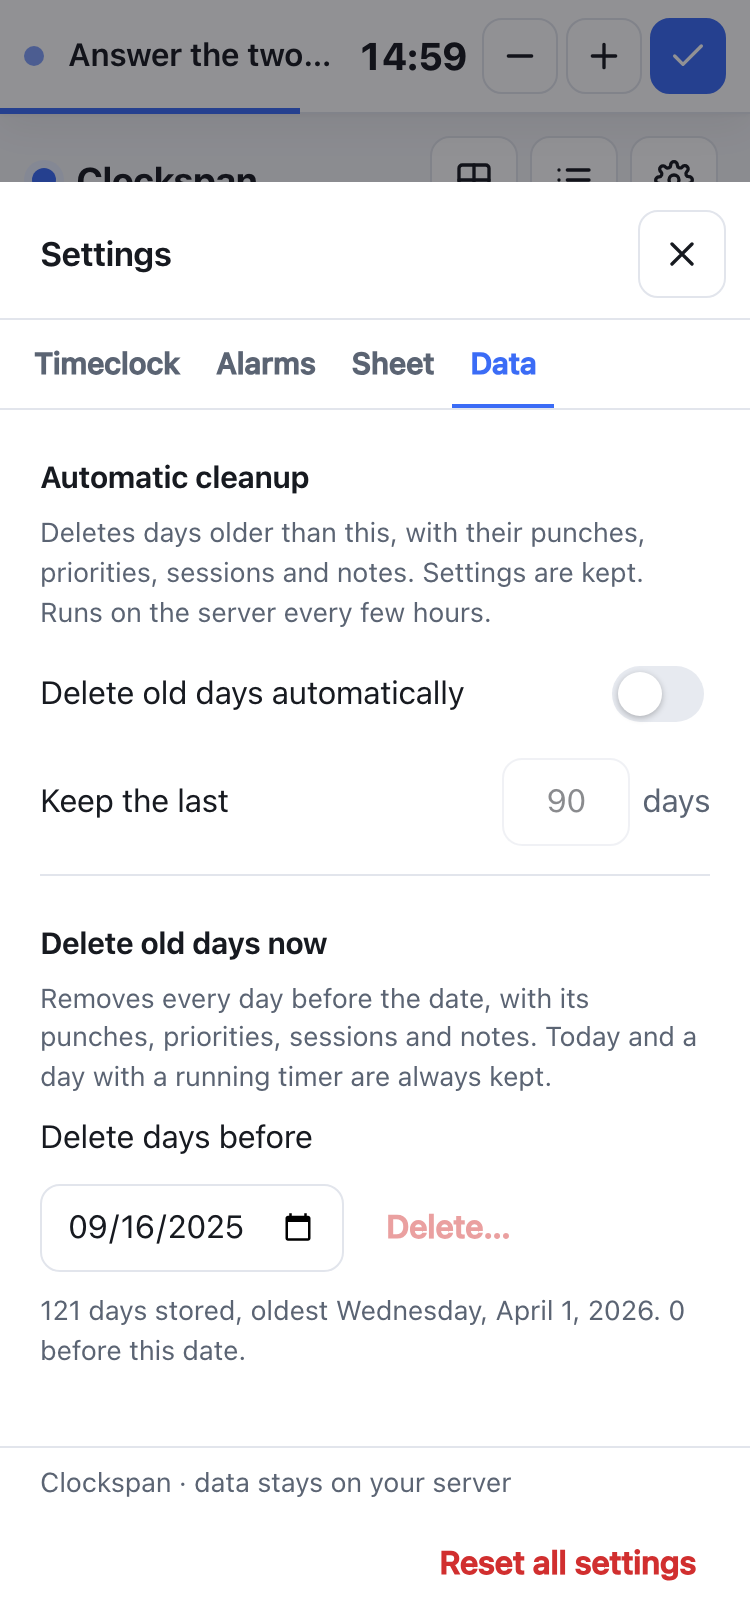
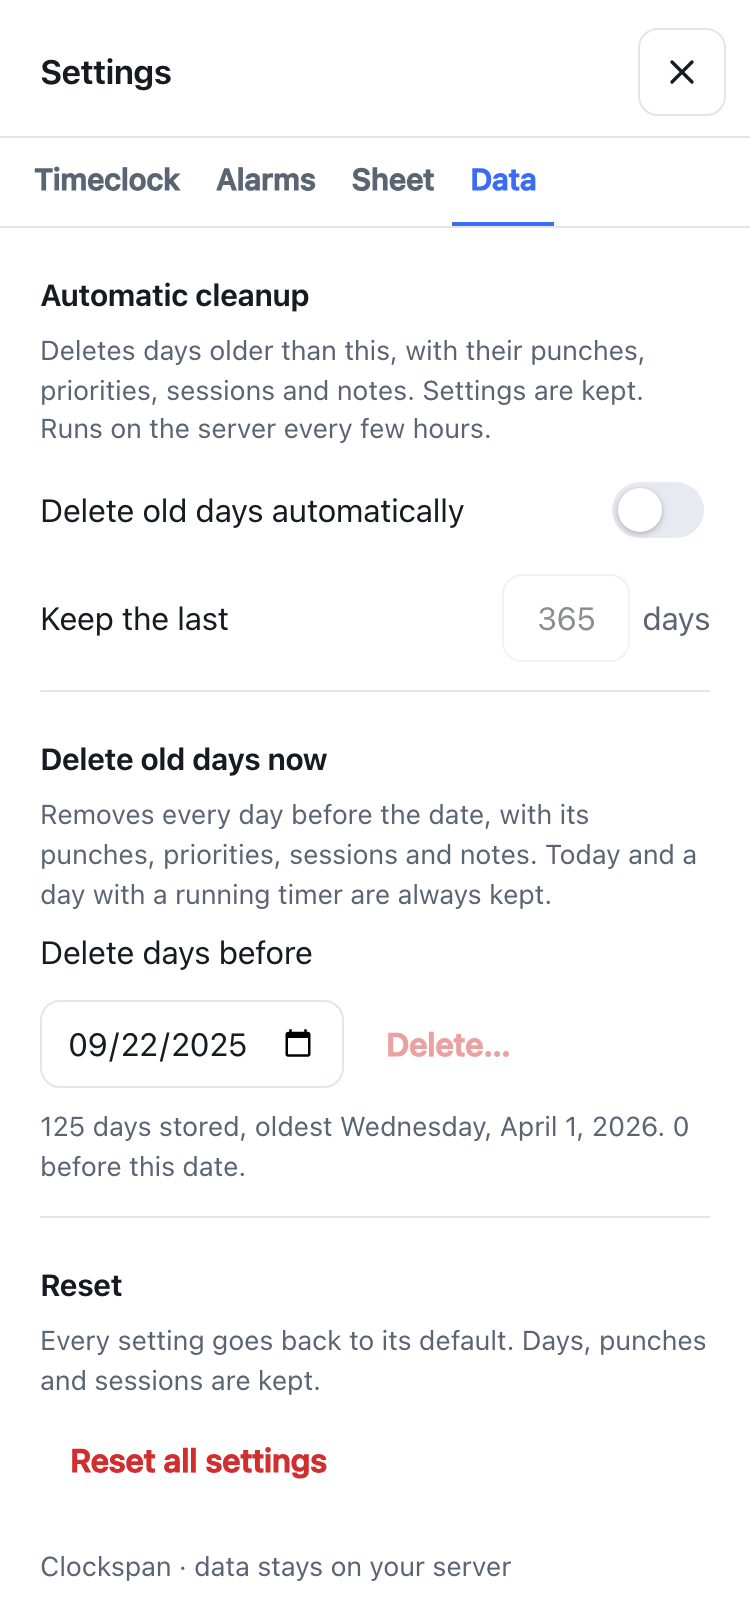
Move Reset all settings to the Data tab
The settings dialog's footer held "Reset all settings" and the "data stays on your server"
line on every tab, about 100 px of a phone screen under content that scrolls. The reset is
now a section at the bottom of the Data tab (same confirm, with a hint from copy.ts), the
line sits under it, and the footer is gone. A dialog body with no footer after it now
carries the bottom safe-area inset itself; the finish-choice dialog keeps its footer and
its inset there.

diff --git a/client/src/components/SettingsDialog.tsx b/client/src/components/SettingsDialog.tsx
@@ -200,6 +200,14 @@ export function SettingsDialog({ onClose }: { onClose: () => void }) {
               />
             </Section>
             <DeleteOldDays />
+            <Section title="Reset" hint={RESET_SETTINGS.hint}>
+              <div>
+                <button className="btn btn-ghost btn-danger-text" onClick={onReset}>
+                  {RESET_SETTINGS.button}
+                </button>
+              </div>
+            </Section>
+            <p className="muted small">Clockspan · data stays on your server</p>
           </>
         );
       case 'account':
@@ -251,12 +259,6 @@ export function SettingsDialog({ onClose }: { onClose: () => void }) {
           {saveState === 'failed' && <p className="notice notice--danger">{SAVE_STATUS.failedDetail}</p>}
           {panel()}
         </div>
-        <footer className="dialog-foot">
-          <span className="muted small">Clockspan · data stays on your server</span>
-          <button className="btn btn-ghost btn-danger-text" onClick={onReset}>
-            {RESET_SETTINGS.button}
-          </button>
-        </footer>
       </div>
     </dialog>
   );

diff --git a/client/src/lib/copy.ts b/client/src/lib/copy.ts
@@ -185,6 +185,7 @@ export const SAVE_STATUS = {
 /** Settings dialog footer: the button and the confirm before every setting goes back to default. */
 export const RESET_SETTINGS = {
   button: 'Reset all settings',
+  hint: 'Every setting goes back to its default. Days, punches and sessions are kept.',
   confirm: 'Reset every setting to its default? Days, punches and sessions are kept.',
 } as const;
 

diff --git a/client/src/styles.css b/client/src/styles.css
@@ -1936,6 +1936,10 @@ dialog.dialog::backdrop {
   flex-direction: column;
   gap: 8px;
 }
+/* A dialog without a footer (settings): the body clears the home indicator itself. */
+.dialog-body:last-child {
+  padding-bottom: calc(24px + var(--safe-bottom));
+}
 /* Pinned under the scrolling body; carries the home-indicator inset on phones. */
 .dialog-foot {
   flex: none;

diff --git a/README.md b/README.md
@@ -240,7 +240,7 @@ sqlite3 /path/on/host/focus.db \
   - **About the defaults.** Lunch within 5 hours, a second meal period after 10 hours worked, and keeping meal alarms on during approved overtime all follow California labor rules, because that's where the author works. Other states and countries differ. Everything is adjustable in Settings, and pull requests that add presets or rules for other places are welcome.
 - **Sticker chart.** Off by default: turn it on under *Settings → Sheet → History*. Every day on the History calendar then wears a sticker for each thing it did (clocked out, lunch taken, all priorities done, a focus session logged, retrospective reviewed) instead of its hours, with the month's count on top and a day that earned all five picked out. The legend chips count each kind; tap one to show only that sticker, tap again for all of them. Today updates as you go. Hover a sticker for what it was for.
 - **Layout.** Tap **Customize** to drag cards (long-press on phones), use ▲/▼, or hide a card. Hidden cards appear in a strip at the bottom while customizing. *Settings → Sheet → Layout → Reset to default* restores everything.
-- **Settings.** Five tabs: *Timeclock* (day length, lunch, second meal, time format, overtime approval), *Alarms* (per-alarm rules, sound, notifications, a sound per event with a Test button), *Sheet* (priorities, timer, celebrations, the sticker chart and weekends on the calendar, layout), *Data* (old-day cleanup) and *Account* (local accounts only). **Reset all settings** in the dialog footer puts every setting back to its default; days, punches and sessions are untouched.
+- **Settings.** Five tabs: *Timeclock* (day length, lunch, second meal, time format, overtime approval), *Alarms* (per-alarm rules, sound, notifications, a sound per event with a Test button), *Sheet* (priorities, timer, celebrations, the sticker chart and weekends on the calendar, layout), *Data* (old-day cleanup) and *Account* (local accounts only). **Reset all settings**, at the bottom of *Data*, puts every setting back to its default; days, punches and sessions are untouched.
 - **Data.** Settings → Data. *Delete old days automatically* keeps the last N days (30 to 3650) and drops the rest, with their punches, priorities, sessions and notes; the server checks every few hours. *Delete days before* a date does the same once, after showing how many days it will remove. Today and a day with a running timer are never deleted; settings are kept. If the admin set `RETENTION_DAYS`, the tab says so and that ceiling applies whatever you choose.
 - **Past days.** Use ◀ ▶ or the date picker on the sheet, or **History** → **Days**: a month calendar (step back with ◀) with the hours worked on each day. Tap a day to see its worked, focused and priorities numbers, a tick once its retrospective is reviewed, and its note; **Open day** goes to that sheet and **Review this week** to that week's review. Only work here? *Settings → Sheet → History → Show weekends* off drops Saturday and Sunday from the calendar (and from the sticker counts); a weekend day is still reachable from the sheet's date picker. Past days are editable; timers can only start on today.
 - **Phone.** Add to Home Screen (Android: *Install app*; iOS: Share → *Add to Home Screen*). Browser notifications on iOS only work from the installed app. *Keep screen awake* keeps the countdown and chime live while the app is open; if the phone sleeps anyway, the alert fires when you come back.
